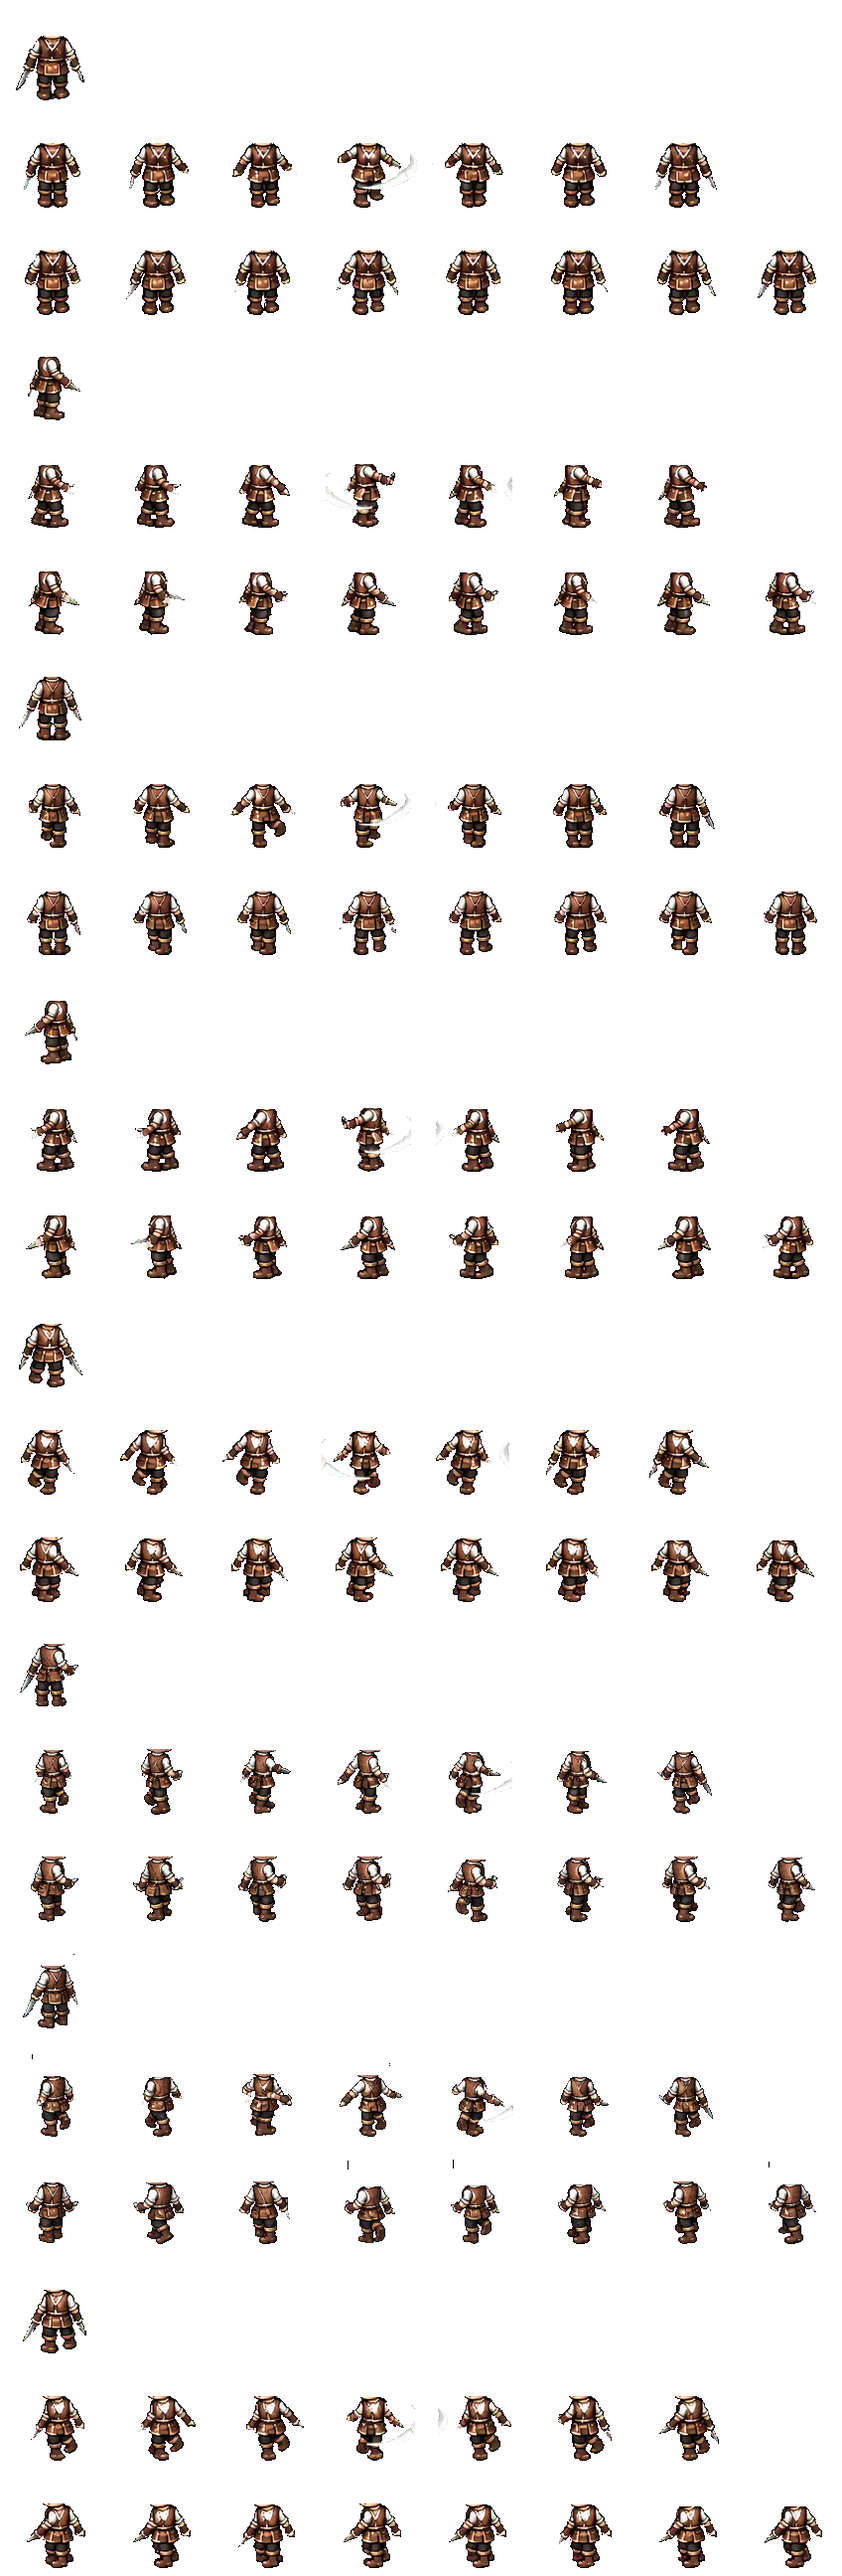
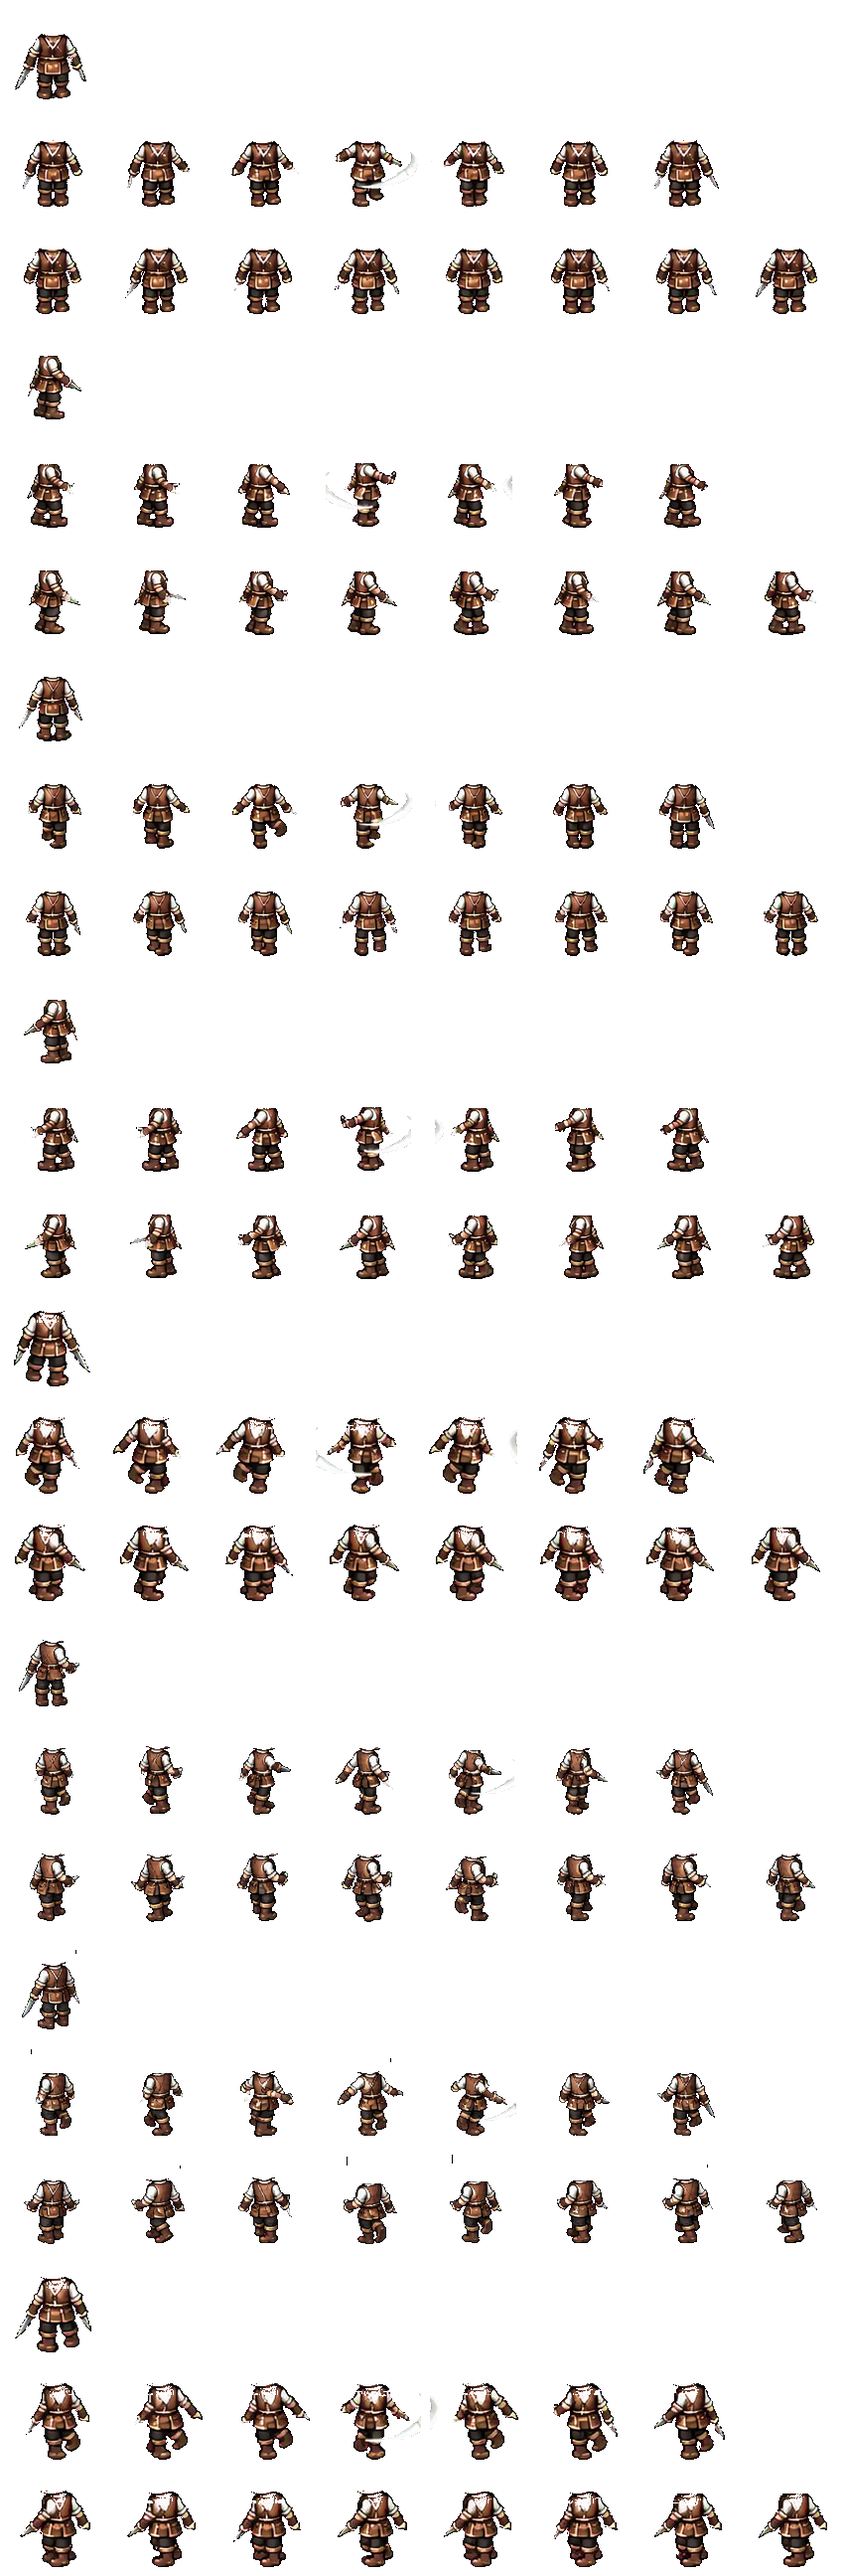
No double chin on the new Trainee: the drawn neck goes too, and the game's head sits on the collar
The packer also takes off the skin and outline of the drawn neck under the skull, its depth measured
once per direction on the standing frame (so a hand near the neck doesn't make the head jump), and
sets the head's chin on the collar. (With the fix before it: a sheet body or person shown before its
sheet loaded is made anew at the frame's size; on main the townsfolk built with their map before
their sheets loaded stayed invisible.)

Claude-Session: https://claude.ai/code/session_01YFUeTrBUAoEatHbswet8RY

diff --git a/build-tools/pack-gpt-body.py b/build-tools/pack-gpt-body.py
@@ -43,7 +43,7 @@ rows = {'down': F[0], 'downleft': F[1], 'left': F[2], 'up': F[3], 'upleft': [B[0
 rows['right'] = [ImageOps.mirror(f) for f in rows['left']]
 rows['downright'] = [ImageOps.mirror(f) for f in rows['downleft']]
 
-def measure(f):
+def measure(f, depth=None):
     """the drawn head (a big round skull) and where it meets the neck; and the feet. The skull's top and
     sides come from its skin (its upper half, lit); the neck is the silhouette's narrowest row under
     the skull's widest one, inside the skull's columns: shading and the outline don't fool it"""
@@ -66,16 +66,30 @@ def measure(f):
     head = np.zeros_like(al)
     head[max(0, top - 3):neck, max(0, x0 - 3):x1 + 4] = True
     head &= al
+    # and its neck under it (a second chin under the game's head): the skin and its dark outline in the
+    # rows below, down to the collar; the game's head then sits on the collar
+    # (how deep that neck is: measured on the standing frame, the same in every frame of the
+    # direction, so a hand near the neck doesn't make the head jump)
+    dark = (r + g + b) < 200
+    nb = 0
+    for y in range(neck, min(al.shape[0], neck + (12 if depth is None else depth))):
+        xs = np.nonzero(skin[y, max(0, x0 - 3):x1 + 4])[0]
+        if not xs.size:
+            if depth is None: break
+            nb += 1; continue
+        c0, c1 = max(0, x0 - 3) + xs.min() - 2, max(0, x0 - 3) + xs.max() + 3
+        head[y, c0:c1] |= (skin[y, c0:c1] | dark[y, c0:c1]) & al[y, c0:c1]
+        nb += 1
     body = al & ~light
     feet = np.nonzero(body.any(1))[0].max()
-    return head, (x0 + x1) / 2, neck, feet
+    return head, (x0 + x1) / 2, neck + nb, feet, nb
 sheet = Image.new('RGBA', (FW * 8, FH * len(DIRS) * len(ANIMS)), (0, 0, 0, 0))
 layout = {}
 for di, d in enumerate(DIRS):
     std = STD['anims'][d]['idle']
     h0, spot0 = std[3][0], std[4][0]           # the standard head here: [x, crown, neck, w, eyes...], its spot
     fr = rows[d]
-    _, _, chin0, feet0 = measure(fr[0])
+    _, _, chin0, feet0, depth = measure(fr[0])
     s = LEGS / (feet0 - chin0)                   # the chin 63 px above the ground
     ground = h0[2] + LEGS
     layout[d] = {}
@@ -85,7 +99,7 @@ for di, d in enumerate(DIRS):
         heads, spots, feet_px = [], [], []
         for k, i in enumerate(idx):
             f = fr[i]
-            grow, cx, chin, feet = measure(f)
+            grow, cx, chin, feet, _ = measure(f, depth)
             a = np.asarray(f).copy(); a[grow, 3] = 0   # the drawn head off
             body = Image.fromarray(a)
             big = body.resize((max(1, round(f.width * s)), max(1, round(f.height * s))), Image.LANCZOS)
